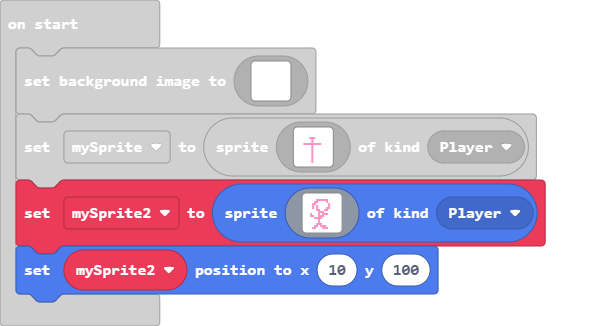
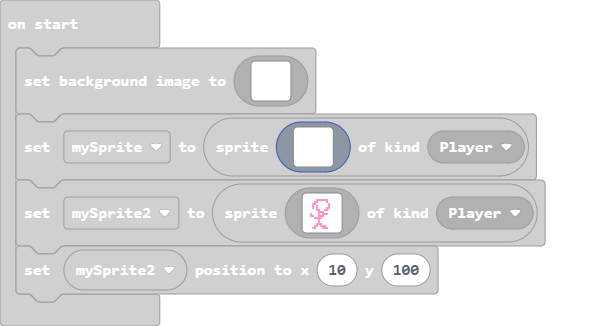
Update main.blocks, main.ts

Changed region(s): [[0.0, 0.3681, 0.9347, 0.9509]]

diff --git a/main.ts b/main.ts
@@ -129,27 +129,27 @@ scene.setBackgroundImage(img`
     `)
 mySprite = sprites.create(img`
     .........................
-    ........5555555..........
-    ........55555555.........
-    .......5555555555........
-    ........eeeeeeee.........
-    ........eeddddde.........
-    ........eedfdfde.........
-    ........edddddd..........
-    .........dddddd..........
-    .......aaacddcaaa........
-    .......aaaaccaaaa........
-    .......acaaaaaaca........
-    .......acaaaaaaca........
-    .......acaaaaaaca........
-    .......acaaaaaaca........
-    .......ddccccccdd........
-    .........aaaaaaa.........
-    ........aaaa.aaaa........
-    .....faaaaa...aaa........
-    .....faaaa.....aa........
-    .....f.........aa........
-    ...............fff.......
+    .........................
+    .........................
+    .........................
+    .........................
+    .........................
+    .........................
+    .........................
+    .........................
+    .........................
+    .........................
+    .........................
+    .........................
+    .........................
+    .........................
+    .........................
+    .........................
+    .........................
+    .........................
+    .........................
+    .........................
+    .........................
     .........................
     .........................
     .........................
